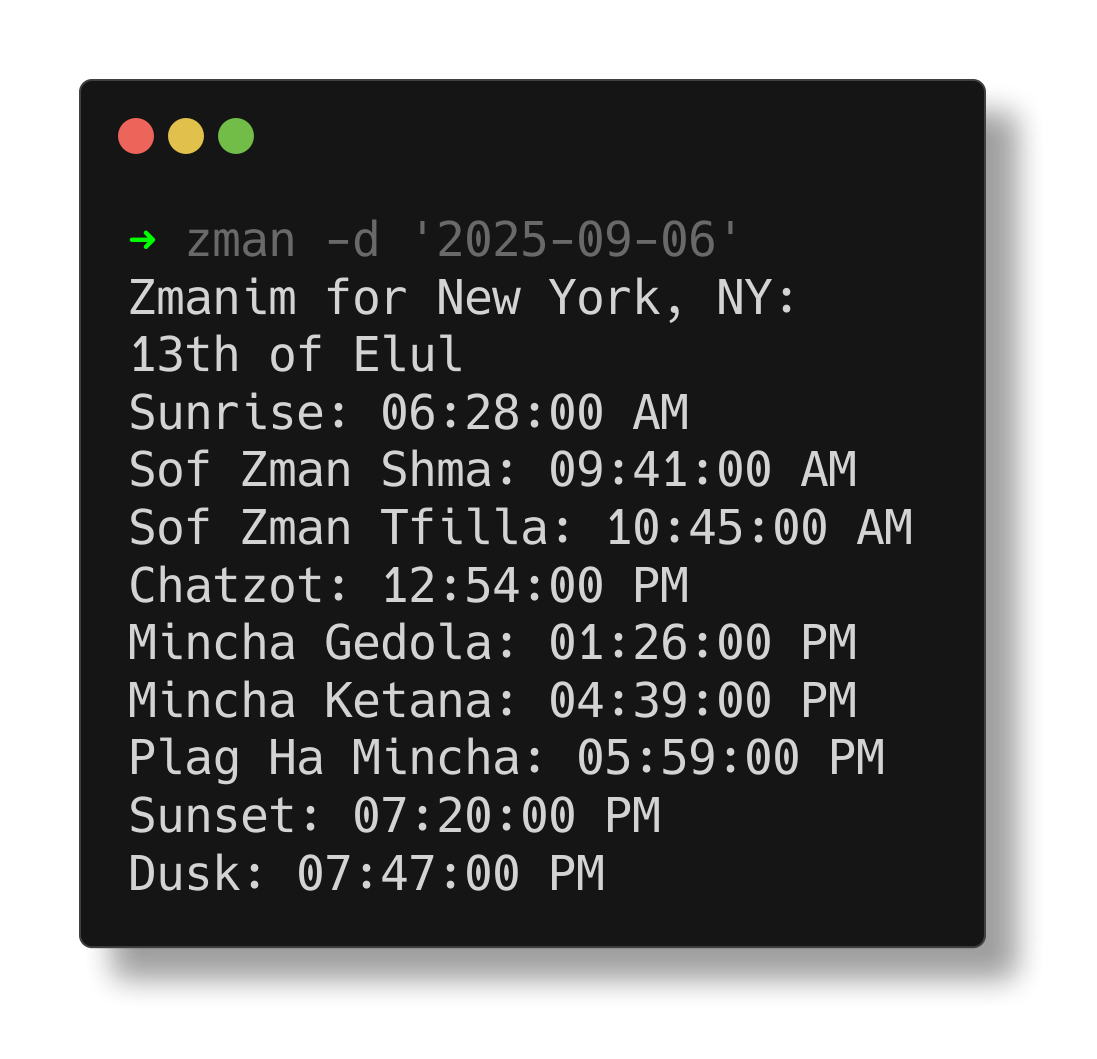
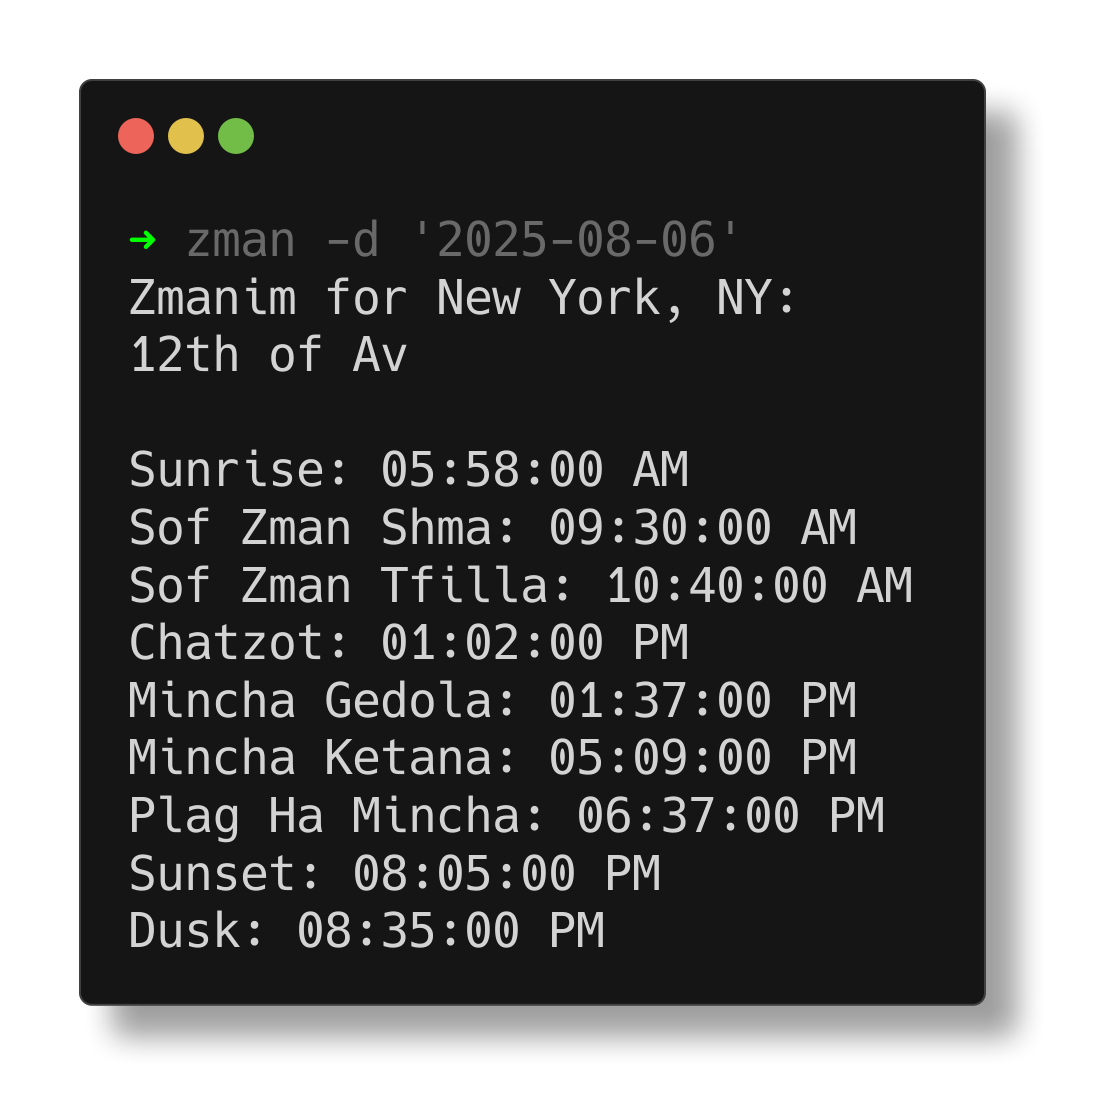
Fixed screenshots, updated screenshots to match functionality, and created screenshots.sh to easily update the screenshots based on current program behaviour

Changed region(s): [[0.062, 0.187, 0.8988, 0.9037], [0.062, 0.0623, 0.8988, 0.1558], [0.6509, 0.2493, 0.7129, 0.3116]]

diff --git a/README.md b/README.md
@@ -33,7 +33,7 @@ pip install .
 
 - `zman -l` or `zman --location` allows you to get the zmanim in a particular location.
 
-<img src="images/date.png" height=300>
+<img src="images/location.png" height=300>
 
 - `zman -h` prints the help message.
 
